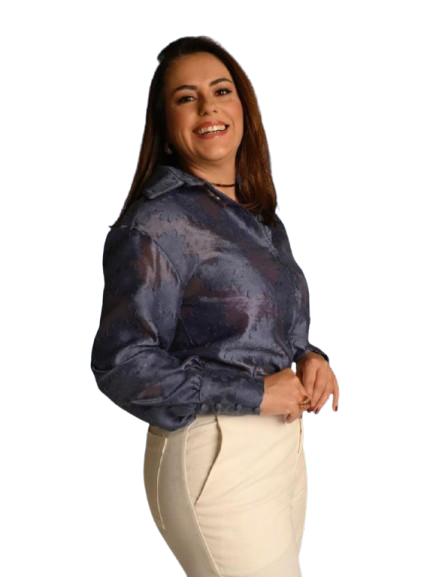
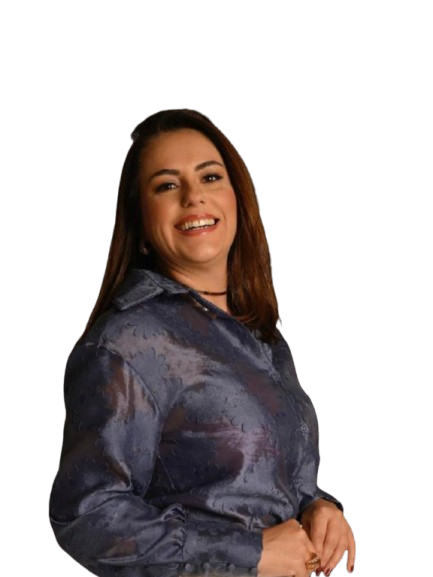
first commit

diff --git a/sobrenos.html b/sobrenos.html
@@ -1317,12 +1317,15 @@ function openWhatsAppDesenvolvimento() {
         }
 
         .founder-image img {
-            width: 400px;
-            border-radius: 2000px;
-            object-fit: cover;
-            background-color: #A5937e;
-            padding: 6px;
-        }
+  width: 400px;          /* set width */
+  height: 400px;         /* set same height */
+  border-radius: 50%;    /* circle shape */
+  object-fit: cover;     /* crop/scale image nicely */
+  background-color: #A5937e; /* optional background frame color */
+  padding: 6px;          /* optional inner padding */
+  box-shadow: 0 4px 15px rgba(0,0,0,0.3); /* optional shadow */
+}
+
 
         .founder-content {
             flex: 1;
